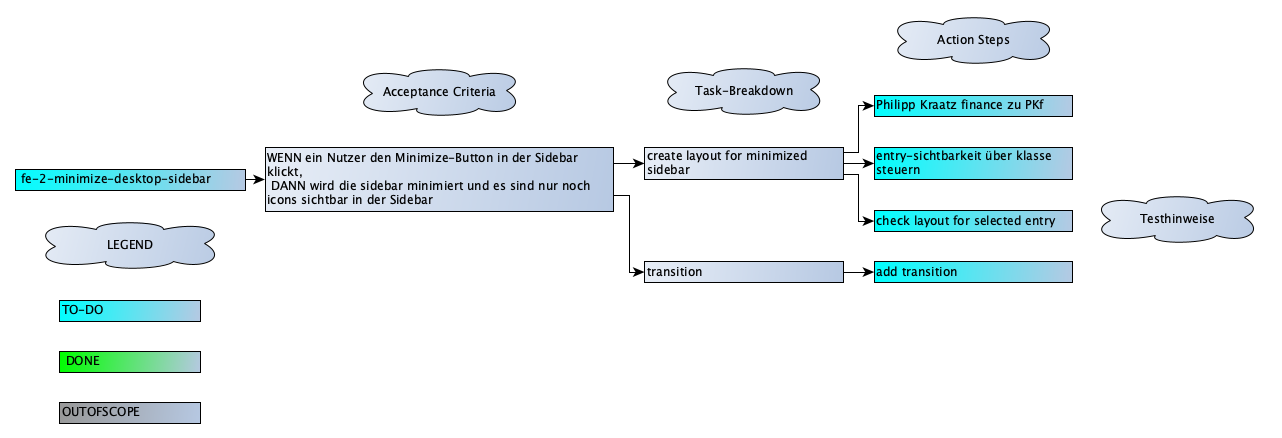
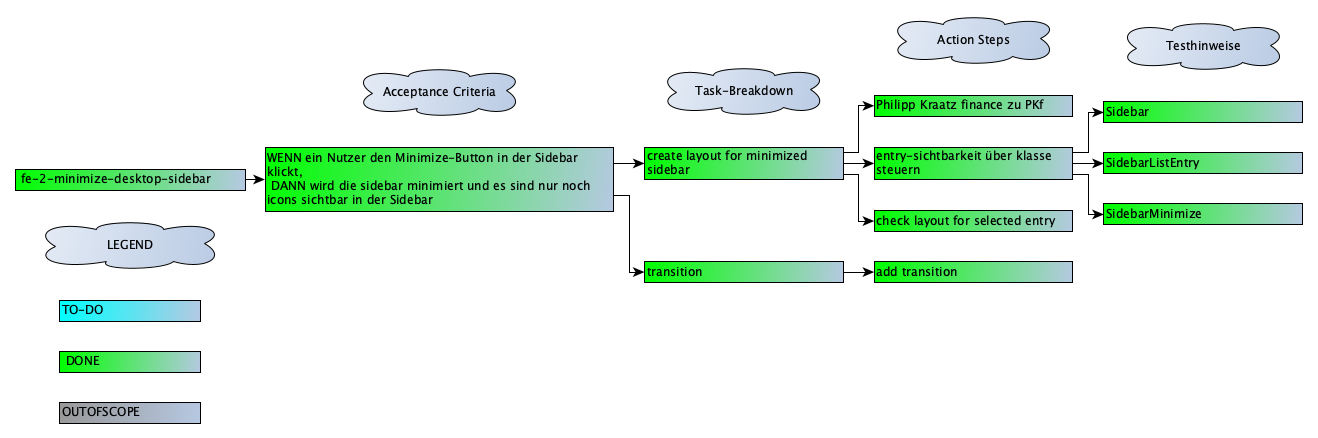
fe-2 add logic for minimizing sidebar

diff --git a/frontend/src/components/sidebar/SidebarListEntry.tsx b/frontend/src/components/sidebar/SidebarListEntry.tsx
@@ -1,7 +1,7 @@
 import './SidebarListEntry.scss';
 import PropTypes from 'prop-types';
 import { SidebarListEntryProps } from '../../model/props/SidebarListEntryProps';
-import React from 'react';
+import React, { useEffect, useState } from 'react';
 import { Link } from 'react-router-dom';
 
 SidebarListEntry.propTypes = {
@@ -11,22 +11,52 @@ SidebarListEntry.propTypes = {
   linkTarget: PropTypes.string,
   isActive: PropTypes.bool,
   className: PropTypes.string,
+  isMinimized: PropTypes.bool,
 };
 
 export function SidebarListEntry({
   name,
   imgSrc,
+  altImgSrc = imgSrc,
   imgAlt,
   linkTarget = '/',
   className = '',
   isActive = false,
+  isMinimized = false,
 }: SidebarListEntryProps) {
-  const content = (
-    <>
-      <img src={imgSrc} alt={imgAlt} aria-hidden="true" />
-      <label className="entryRowLabel">{name}</label>
-    </>
-  );
+  const [content, setContent] = useState(() => {
+    const savedState = localStorage.getItem('isMinimized');
+    const wasMinimized = savedState ? JSON.parse(savedState) : false;
+    return (
+      <>
+        <div className="entryRowImgWrapper">
+          <img
+            className="entryRowImg"
+            src={wasMinimized ? altImgSrc : imgSrc}
+            alt={imgAlt}
+            aria-hidden="true"
+          />
+        </div>
+        <label className={`entryRowLabel ${wasMinimized ? 'minimized' : ''}`}>{name}</label>
+      </>
+    );
+  });
+
+  useEffect(() => {
+    setContent(
+      <>
+        <div className="entryRowImgWrapper">
+          <img
+            className="entryRowImg"
+            src={isMinimized ? altImgSrc : imgSrc}
+            alt={imgAlt}
+            aria-hidden="true"
+          />
+        </div>
+        <label className={`entryRowLabel ${isMinimized ? 'minimized' : ''}`}>{name}</label>
+      </>
+    );
+  }, [isMinimized]);
 
   const isLink = className !== 'sidebarMinimize';
   if (isLink) {
@@ -37,7 +67,7 @@ export function SidebarListEntry({
     );
   } else {
     return (
-      <div className={`entryRow div`} tabIndex={0}>
+      <div className="entryRow div" tabIndex={0}>
         {content}
       </div>
     );

diff --git a/frontend/src/components/sidebar/SidebarMinimize.spec.tsx b/frontend/src/components/sidebar/SidebarMinimize.spec.tsx
@@ -1,12 +1,16 @@
-import { render, screen } from '@testing-library/react';
+import { fireEvent, render, screen } from '@testing-library/react';
 import { SidebarMinimize } from './SidebarMinimize';
 import { SidebarMinimizeProps } from '../../constants/SidebarMinimizeProps';
-import { MemoryRouter } from 'react-router-dom';
 import React from 'react';
 
 describe('SidebarMinimize', () => {
+  const mockOnMinimize = jest.fn();
+  const testProps = {
+    onMinimize: mockOnMinimize,
+  };
+
   it('has the correct name of SidebarMinimize', () => {
-    render(<SidebarMinimize />);
+    render(<SidebarMinimize {...testProps} />);
 
     const labelElement: HTMLElement = screen.getByText(SidebarMinimizeProps.name);
 
@@ -14,7 +18,7 @@ describe('SidebarMinimize', () => {
   });
 
   it('passes the correct icon of SidebarMinimize', () => {
-    render(<SidebarMinimize />);
+    render(<SidebarMinimize {...testProps} />);
 
     const imgElement: HTMLElement = screen.getByAltText(SidebarMinimizeProps.imgAlt);
 
@@ -22,16 +26,21 @@ describe('SidebarMinimize', () => {
   });
 
   it('does not render a link for SidebarMinimize', () => {
-    const { container } = render(
-      <MemoryRouter>
-        <SidebarMinimize />
-      </MemoryRouter>
-    );
+    const { container } = render(<SidebarMinimize {...testProps} />);
 
     const linkElement = container.querySelector('.link');
     const divElement = container.querySelector('.div');
 
     expect(linkElement).not.toBeInTheDocument();
     expect(divElement).toBeInTheDocument();
+  });
+
+  it('calls callback function onMinimize when div sidebarMinimizeWrapper is clicked', () => {
+    const { container } = render(<SidebarMinimize {...testProps} />);
+
+    const divElement = container.querySelector('.sidebarMinimizeWrapper');
+    fireEvent.click(divElement!);
+
+    expect(mockOnMinimize).toHaveBeenCalled();
   });
 });

diff --git a/frontend/src/components/sidebar/Sidebar.tsx b/frontend/src/components/sidebar/Sidebar.tsx
@@ -3,16 +3,31 @@ import { SidebarPages } from '../../constants/SidebarPages';
 import { SidebarPage } from '../../model/SidebarPage';
 import { SidebarListEntry } from './SidebarListEntry';
 import { SidebarMinimize } from './SidebarMinimize';
-import { ProjectName } from '../../constants/ProjectName';
 import { useLocation } from 'react-router-dom';
+import { useState } from 'react';
 
 export function Sidebar() {
+  const [isMinimized, setIsMinimized] = useState<boolean>(() => {
+    return JSON.parse(localStorage.getItem('isMinimized') ?? 'false');
+  });
+
   const location = useLocation();
   const currentPath = location.pathname;
 
+  const handleSidebarMinimize = (minimized: boolean) => {
+    setIsMinimized(minimized);
+  };
+
+  const projectIconBig = './src/assets/images/project-big.png';
+  const projectIconSmall = './src/assets/images/project-small.png';
+
   return (
-    <section className="sidebar" data-testid="sidebar">
-      <label className="sidebarTitle">{ProjectName}</label>
+    <section className={`sidebar ${isMinimized ? 'minimized' : ''}`} data-testid="sidebar">
+      <img
+        className="sidebarTitle"
+        alt="project icon"
+        src={`${isMinimized ? projectIconSmall : projectIconBig}`}
+      />
       <div className="sidebarList">
         {SidebarPages.map((entry: SidebarPage) => (
           <SidebarListEntry
@@ -22,10 +37,11 @@ export function Sidebar() {
             imgAlt={entry.imgAlt}
             linkTarget={entry.linkTarget}
             isActive={currentPath === entry.linkTarget}
+            isMinimized={isMinimized}
           />
         ))}
       </div>
-      <SidebarMinimize />
+      <SidebarMinimize onMinimize={handleSidebarMinimize} />
     </section>
   );
 }

diff --git a/frontend/src/components/sidebar/SidebarMinimize.tsx b/frontend/src/components/sidebar/SidebarMinimize.tsx
@@ -1,12 +1,37 @@
 import { SidebarListEntry } from './SidebarListEntry';
+import { SidebarMinimizeProps } from '../../model/props/SidebarMinimizeProps';
+import PropTypes from 'prop-types';
+import { useEffect, useState } from 'react';
 
-export function SidebarMinimize() {
+SidebarMinimize.propTypes = {
+  onMinimize: PropTypes.func.isRequired,
+};
+
+export function SidebarMinimize({ onMinimize }: SidebarMinimizeProps) {
+  const [isMinimized, setIsMinimized] = useState<boolean>(() => {
+    const savedState = localStorage.getItem('isMinimized');
+    return savedState ? JSON.parse(savedState) : false;
+  });
+
+  const handleMinimize = () => {
+    setIsMinimized((prev) => !prev);
+    onMinimize(!isMinimized);
+  };
+
+  useEffect(() => {
+    localStorage.setItem('isMinimized', JSON.stringify(isMinimized));
+  }, [isMinimized]);
+
   return (
-    <SidebarListEntry
-      name="Minimize Menu"
-      imgSrc="./src/assets/images/icon-minimize-menu.svg"
-      imgAlt="minimize icon"
-      className="sidebarMinimize"
-    />
+    <div className="sidebarMinimizeWrapper" onClick={handleMinimize}>
+      <SidebarListEntry
+        isMinimized={isMinimized}
+        name="Minimize Menu"
+        imgSrc="./src/assets/images/icon-minimize-menu.svg"
+        altImgSrc="./src/assets/images/icon-maximize-menu.svg"
+        imgAlt="minimize icon"
+        className="sidebarMinimize"
+      />
+    </div>
   );
 }

diff --git a/frontend/src/components/sidebar/Sidebar.scss b/frontend/src/components/sidebar/Sidebar.scss
@@ -3,16 +3,23 @@
   background-color: var(--sidebar-background-grey);
   padding: 32px 24px 70px 0;
   height: 100%;
+  width: 300px;
   display: flex;
   flex-direction: column;
+  transition: width 0.5s ease, padding 0.5s ease;
+}
+.sidebar.minimized {
+  width: 90px;
+  padding: 32px 18px 70px 0;
 }
 
 .sidebarList {
-  height: 775px;
+  height: 600px;
 }
 
 .sidebarTitle {
   margin: 0 0 64px 24px;
+  height: 80px;
   font-size: 28px;
   font-weight: 900;
   transform: scale(1, 0.9);

diff --git a/frontend/src/components/sidebar/SidebarListEntry.scss b/frontend/src/components/sidebar/SidebarListEntry.scss
@@ -28,9 +28,27 @@
   }
 }
 
+.entryRowImg {
+  width: 20px;
+}
+
+.entryRowImgWrapper {
+  height: 25px;
+  display: flex;
+  flex-direction: row;
+  align-items: center;
+}
+
 .entryRowLabel {
   margin-left: 16px;
   font-weight: 600;
   color: var(--sidebar-entry-text-default);
   cursor: pointer;
+  white-space: nowrap;
+  opacity: 1;
+  transition: opacity 0.5s ease-in;
+}
+.entryRowLabel.minimized {
+  opacity: 0;
+  transition: opacity 0.2s ease-out;
 }

diff --git a/frontend/index.html b/frontend/index.html
@@ -14,7 +14,15 @@
         flex-direction: column;
       }
 
+      html {
+        height: 100%;
+      }
+
       main {
+        height: 100%;
+      }
+
+      .appSpace {
         height: 100%;
       }
 
@@ -30,7 +38,7 @@
   </head>
   <body>
     <main>
-      <div id="root"></div>
+      <div class="appSpace" id="root"></div>
       <script type="module" src="./src/main.tsx"></script>
     </main>
     <footer class="attribution">

diff --git a/frontend/src/model/props/SidebarListEntryProps.ts b/frontend/src/model/props/SidebarListEntryProps.ts
@@ -1,5 +1,11 @@
 import { SidebarPage } from '../SidebarPage';
 
 export interface SidebarListEntryProps extends SidebarPage {
+  imgSrc: string;
+  imgAlt: string;
+  altImgSrc?: string;
+  linkTarget?: string;
   className?: string;
+  isActive?: boolean;
+  isMinimized?: boolean;
 }

diff --git a/frontend/src/App.scss b/frontend/src/App.scss
@@ -6,5 +6,5 @@
   background-color: var(--page-background);
   height: 100%;
   display: grid;
-  grid-template-columns: 300px 1fr;
+  grid-template-columns: fit-content(100%) 1fr;
 }

diff --git a/frontend/src/Pages/BillsPage.scss b/frontend/src/Pages/BillsPage.scss
@@ -1,5 +1,6 @@
 .billsPage {
   background-color: var(--);
+  height: 100%;
   padding: 32px 40px;
   display: flex;
   flex-direction: column;

diff --git a/frontend/src/model/props/SidebarMinimizeProps.ts b/frontend/src/model/props/SidebarMinimizeProps.ts
@@ -1,0 +1,3 @@
+export interface SidebarMinimizeProps {
+  onMinimize: (isMinimized: boolean) => void;
+}
